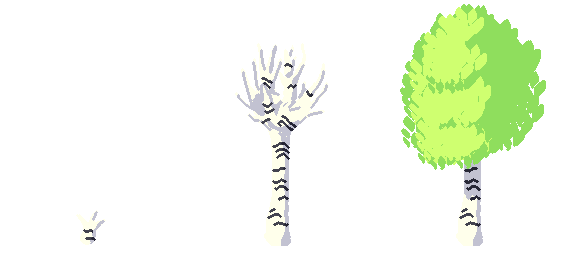
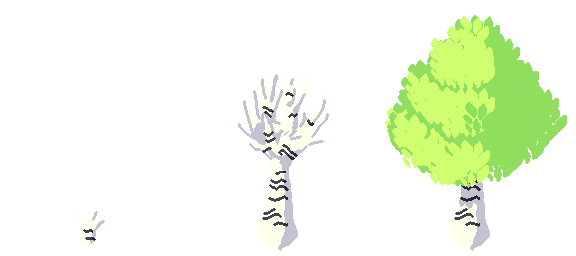
add list in shop

diff --git a/views/game.py b/views/game.py
@@ -8,6 +8,7 @@ import arcade.gui.experimental
 from data import get_save_file
 from music import MusicPlayer
 from plants_properties import plants
+from utils.format import format_number
 
 BUTTON_STYLE = {
     "normal": arcade.gui.UITextureButton.UIStyle(font_name="Do Hyeon", font_size=16),
@@ -31,7 +32,7 @@ class GameView(arcade.View):
         )
         self.background_sprites.append(self.background)
 
-        self.shop = arcade.Sprite("assets/shop.png", center_x=1360, center_y=912)
+        self.shop = arcade.Sprite("assets/shop.png", center_x=1552, center_y=1216)
         self.foregroud_sprites.append(self.shop)
 
         self.plant_textures: list[list[arcade.Texture]] = []
@@ -40,32 +41,32 @@ class GameView(arcade.View):
             sheet = arcade.load_spritesheet(plant["spritesheet"])
             self.plant_textures.append(sheet.get_texture_grid((192, 256), 3, 3))
 
-        self.camera = arcade.Camera2D(position=(512, 384))
+        self.camera = arcade.Camera2D(position=(1024, 768))
 
         for x in range(4):
             for y in range(2):
                 sprite = arcade.Sprite(
                     "assets/placement_dirt.png",
-                    center_x=128 + x * 192,
-                    center_y=192 + y * 256,
+                    center_x=224 + x * 192,
+                    center_y=1088 + y * 256,
                 )
                 self.foregroud_sprites.append(sprite)
 
         for x in range(4):
             for y in range(2):
                 sprite = arcade.Sprite(
-                    "assets/placement_dirt.png",
-                    center_x=128 + x * 192,
-                    center_y=928 + y * 256,
+                    "assets/placement_water.png",
+                    center_x=224 + x * 192,
+                    center_y=320 + y * 256,
                 )
                 self.foregroud_sprites.append(sprite)
 
         for x in range(4):
             for y in range(2):
                 sprite = arcade.Sprite(
-                    "assets/placement_dirt.png",
-                    center_x=1184 + x * 192,
-                    center_y=192 + y * 256,
+                    "assets/placement_jungle.png",
+                    center_x=1280 + x * 192,
+                    center_y=320 + y * 256,
                 )
                 self.foregroud_sprites.append(sprite)
 
@@ -87,13 +88,32 @@ class GameView(arcade.View):
 
         self.shop_sprites = arcade.SpriteList()
         self.shop_plant_preview = arcade.BasicSprite(
-            self.plant_textures[0][2], center_x=744, center_y=228
+            self.plant_textures[0][2], center_x=744, center_y=524
         )
         self.shop_sprites.append(self.shop_plant_preview)
+
+        self.plant_widgets = []
+
+        self.current_plant_index = 0
 
         self.shop_manager = arcade.gui.UIManager()
 
     def on_show_view(self) -> None:
+        layout = arcade.gui.UILayout()
+
+        self.shop_price_label = arcade.gui.UILabel(
+            text=str(plants[0]["price"]),
+            x=625,
+            y=327,
+            width=222,
+            height=48,
+            font_name="Do Hyeon",
+            font_size=20,
+            align="center",
+        )
+
+        layout.add(self.shop_price_label)
+
         shop_scroll_area = arcade.gui.experimental.UIScrollArea(
             x=130,
             y=89,
@@ -107,13 +127,20 @@ class GameView(arcade.View):
                 width=350,
                 height=48,
                 texture=arcade.load_texture("assets/shop/frame.png"),
+                texture_disabled=arcade.load_texture("assets/shop/frame_clicked.png"),
                 text=plant["name"],
                 style=BUTTON_STYLE,
             )
 
+            self.plant_widgets.append(plant_widget)
+
             @plant_widget.event
-            def on_click(event, index=index):
+            def on_click(event, index=index, plant=plant):
+                self.plant_widgets[self.current_plant_index].disabled = False
+                self.plant_widgets[index].disabled = True
                 self.shop_plant_preview.texture = self.plant_textures[index][2]
+                self.shop_price_label.text = format_number(plant["price"])
+                self.current_plant_index = index
 
             shop_plant_list.add(plant_widget)
 
@@ -121,7 +148,9 @@ class GameView(arcade.View):
         shop_scroll_area.scroll_speed = 16
         shop_scroll_area.invert_scroll = True
 
-        self.shop_manager.add(shop_scroll_area)
+        layout.add(shop_scroll_area)
+
+        self.shop_manager.add(layout)
 
     def on_draw(self):
         self.clear()

diff --git a/plants_properties.py b/plants_properties.py
@@ -119,9 +119,9 @@ palm = {
     "ground_type": 2,
 }
 
-jungle = {
-    "name": "Jungle Tree",
-    "spritesheet": "assets/plants/jungle.png",
+baobab = {
+    "name": "Baobab",
+    "spritesheet": "assets/plants/baobab.png",
     "price": 1000000000,
     "yield": 100000000,
     "time_to_grow_adult": 604800,
@@ -129,7 +129,6 @@ jungle = {
     "ground_type": 2,
 }
 
-"""
 plants = [
     oak,
     sakura,
@@ -142,8 +141,5 @@ plants = [
     acacia,
     cactus,
     palm,
-    jungle,
+    baobab,
 ]
-"""
-
-plants = [oak, sakura, birch, pine, clovers, kelp, nenuphar, corals, acacia, cactus]

diff --git a/utils/format.py b/utils/format.py
@@ -1,0 +1,13 @@
+def format_number(number):
+    suffixes = ["", "K", "M", "B", "T"]
+    i = 0
+
+    while abs(number) >= 1000 and i < len(suffixes) - 1:
+        number /= 1000.0
+        i += 1
+
+    return (
+        f"{number:.1f}{suffixes[i]}"
+        if i > 0 and i < len(suffixes)
+        else str(int(number))
+    )

diff --git a/views/main_menu.py b/views/main_menu.py
@@ -10,6 +10,8 @@ class MainMenuView(arcade.View):
         super().__init__()
         self.manager = arcade.gui.UIManager()
 
+        self.background_color = arcade.uicolor.DARK_BLUE_MIDNIGHT_BLUE
+
         self.sprites = arcade.SpriteList()
         self.logo = arcade.Sprite(
             "assets/logo.png",
